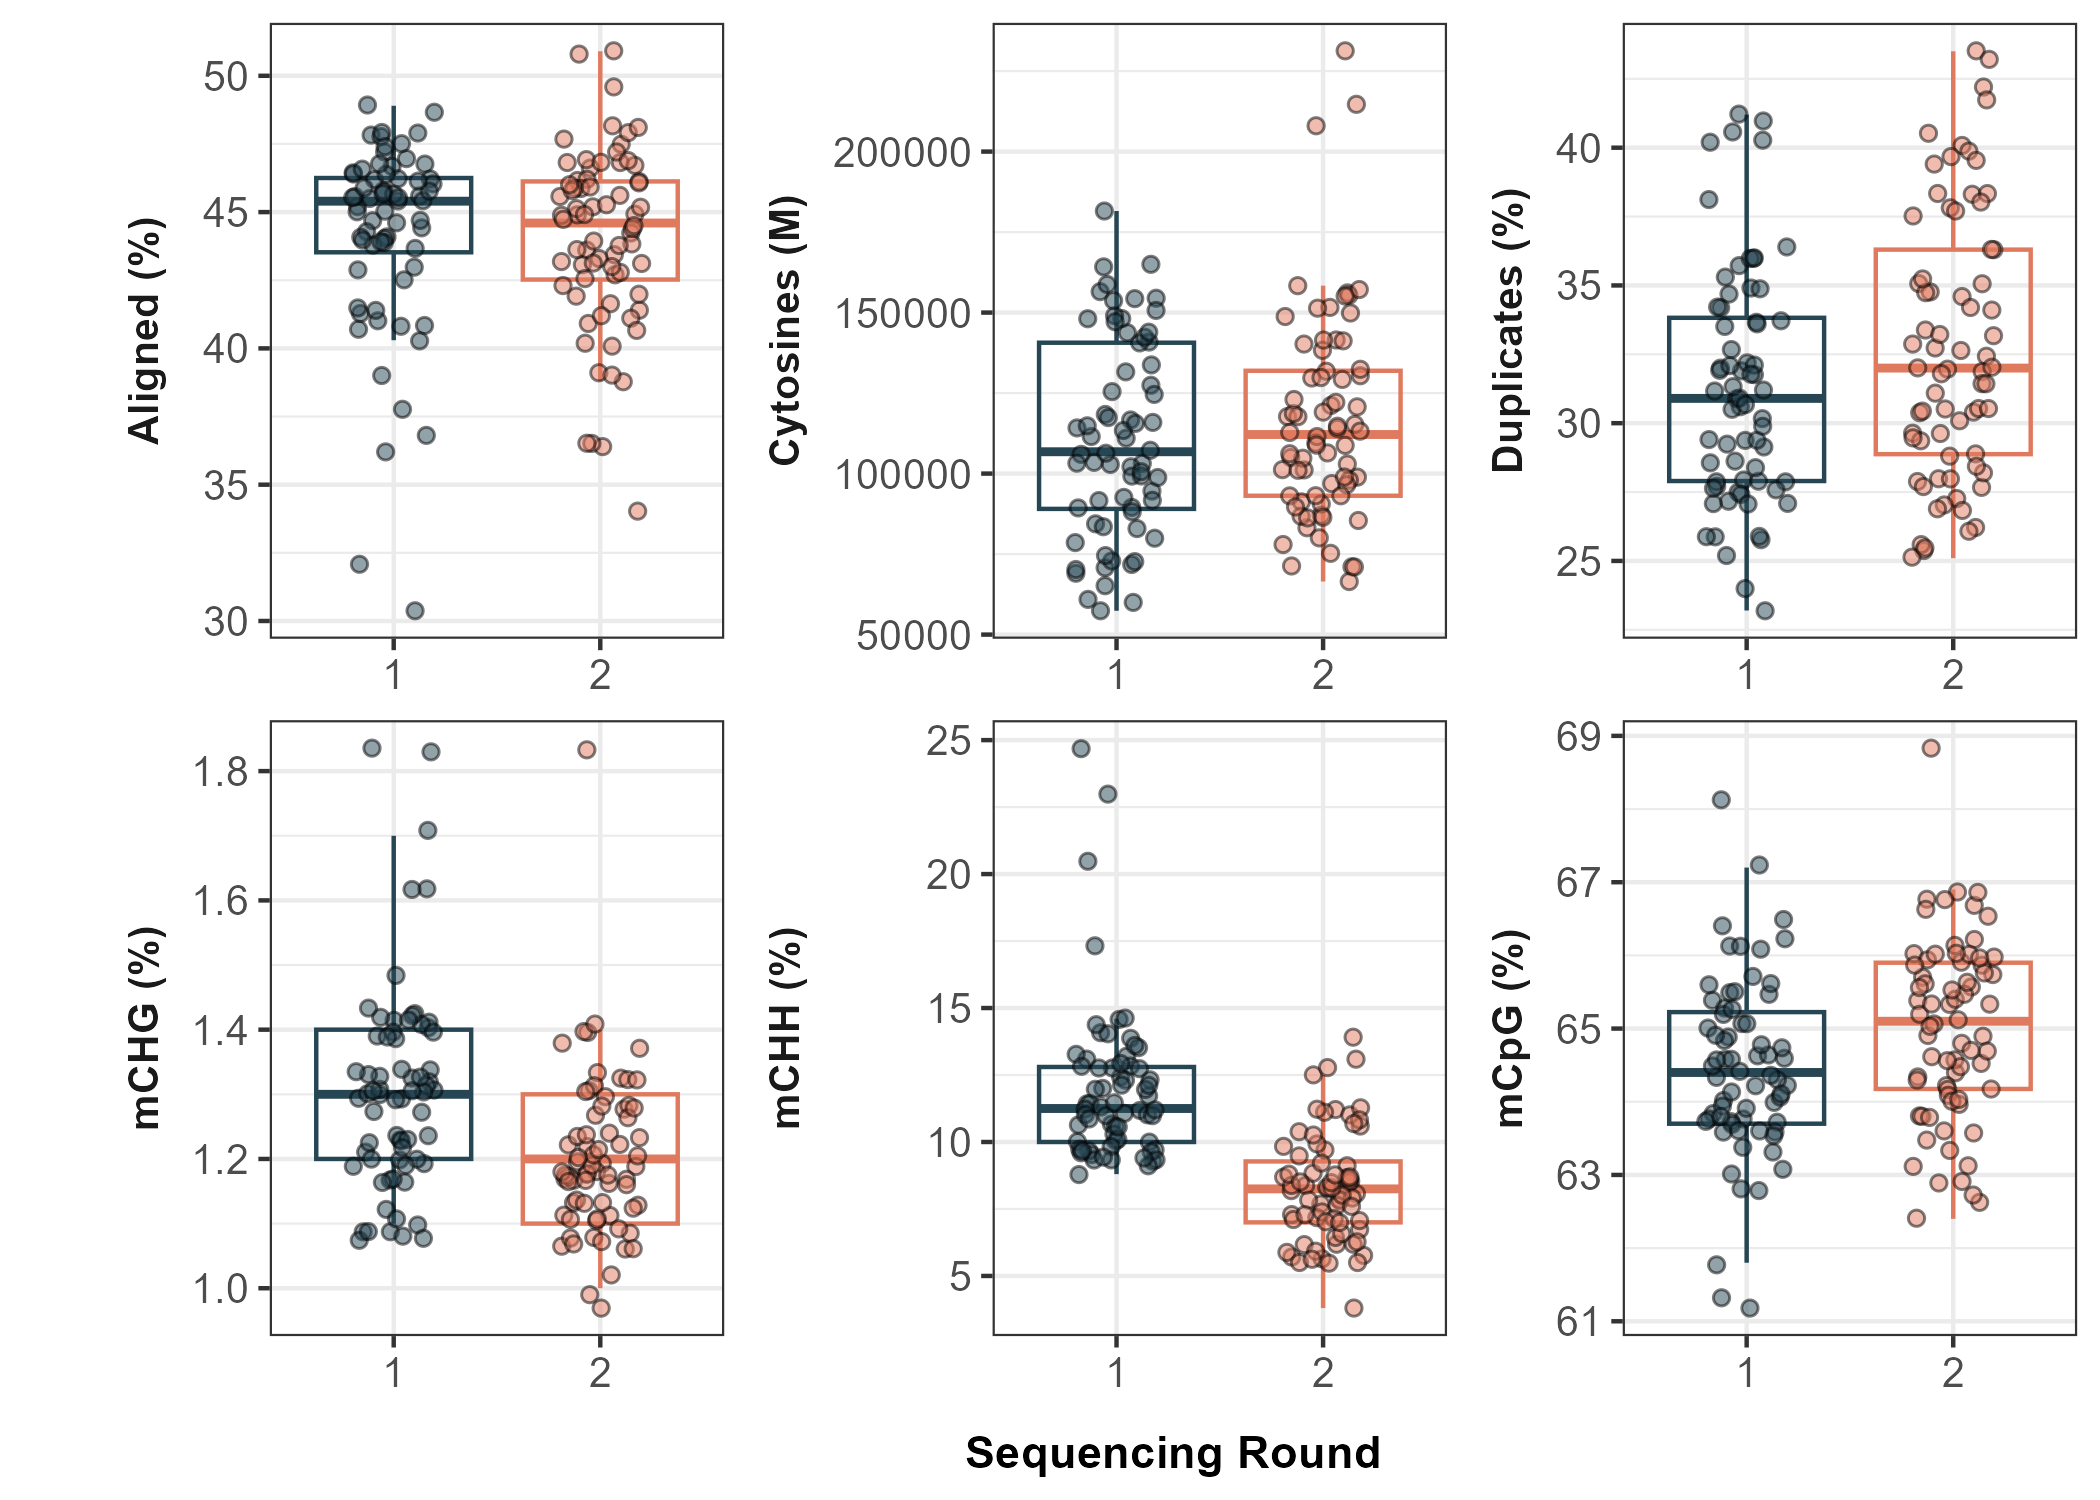
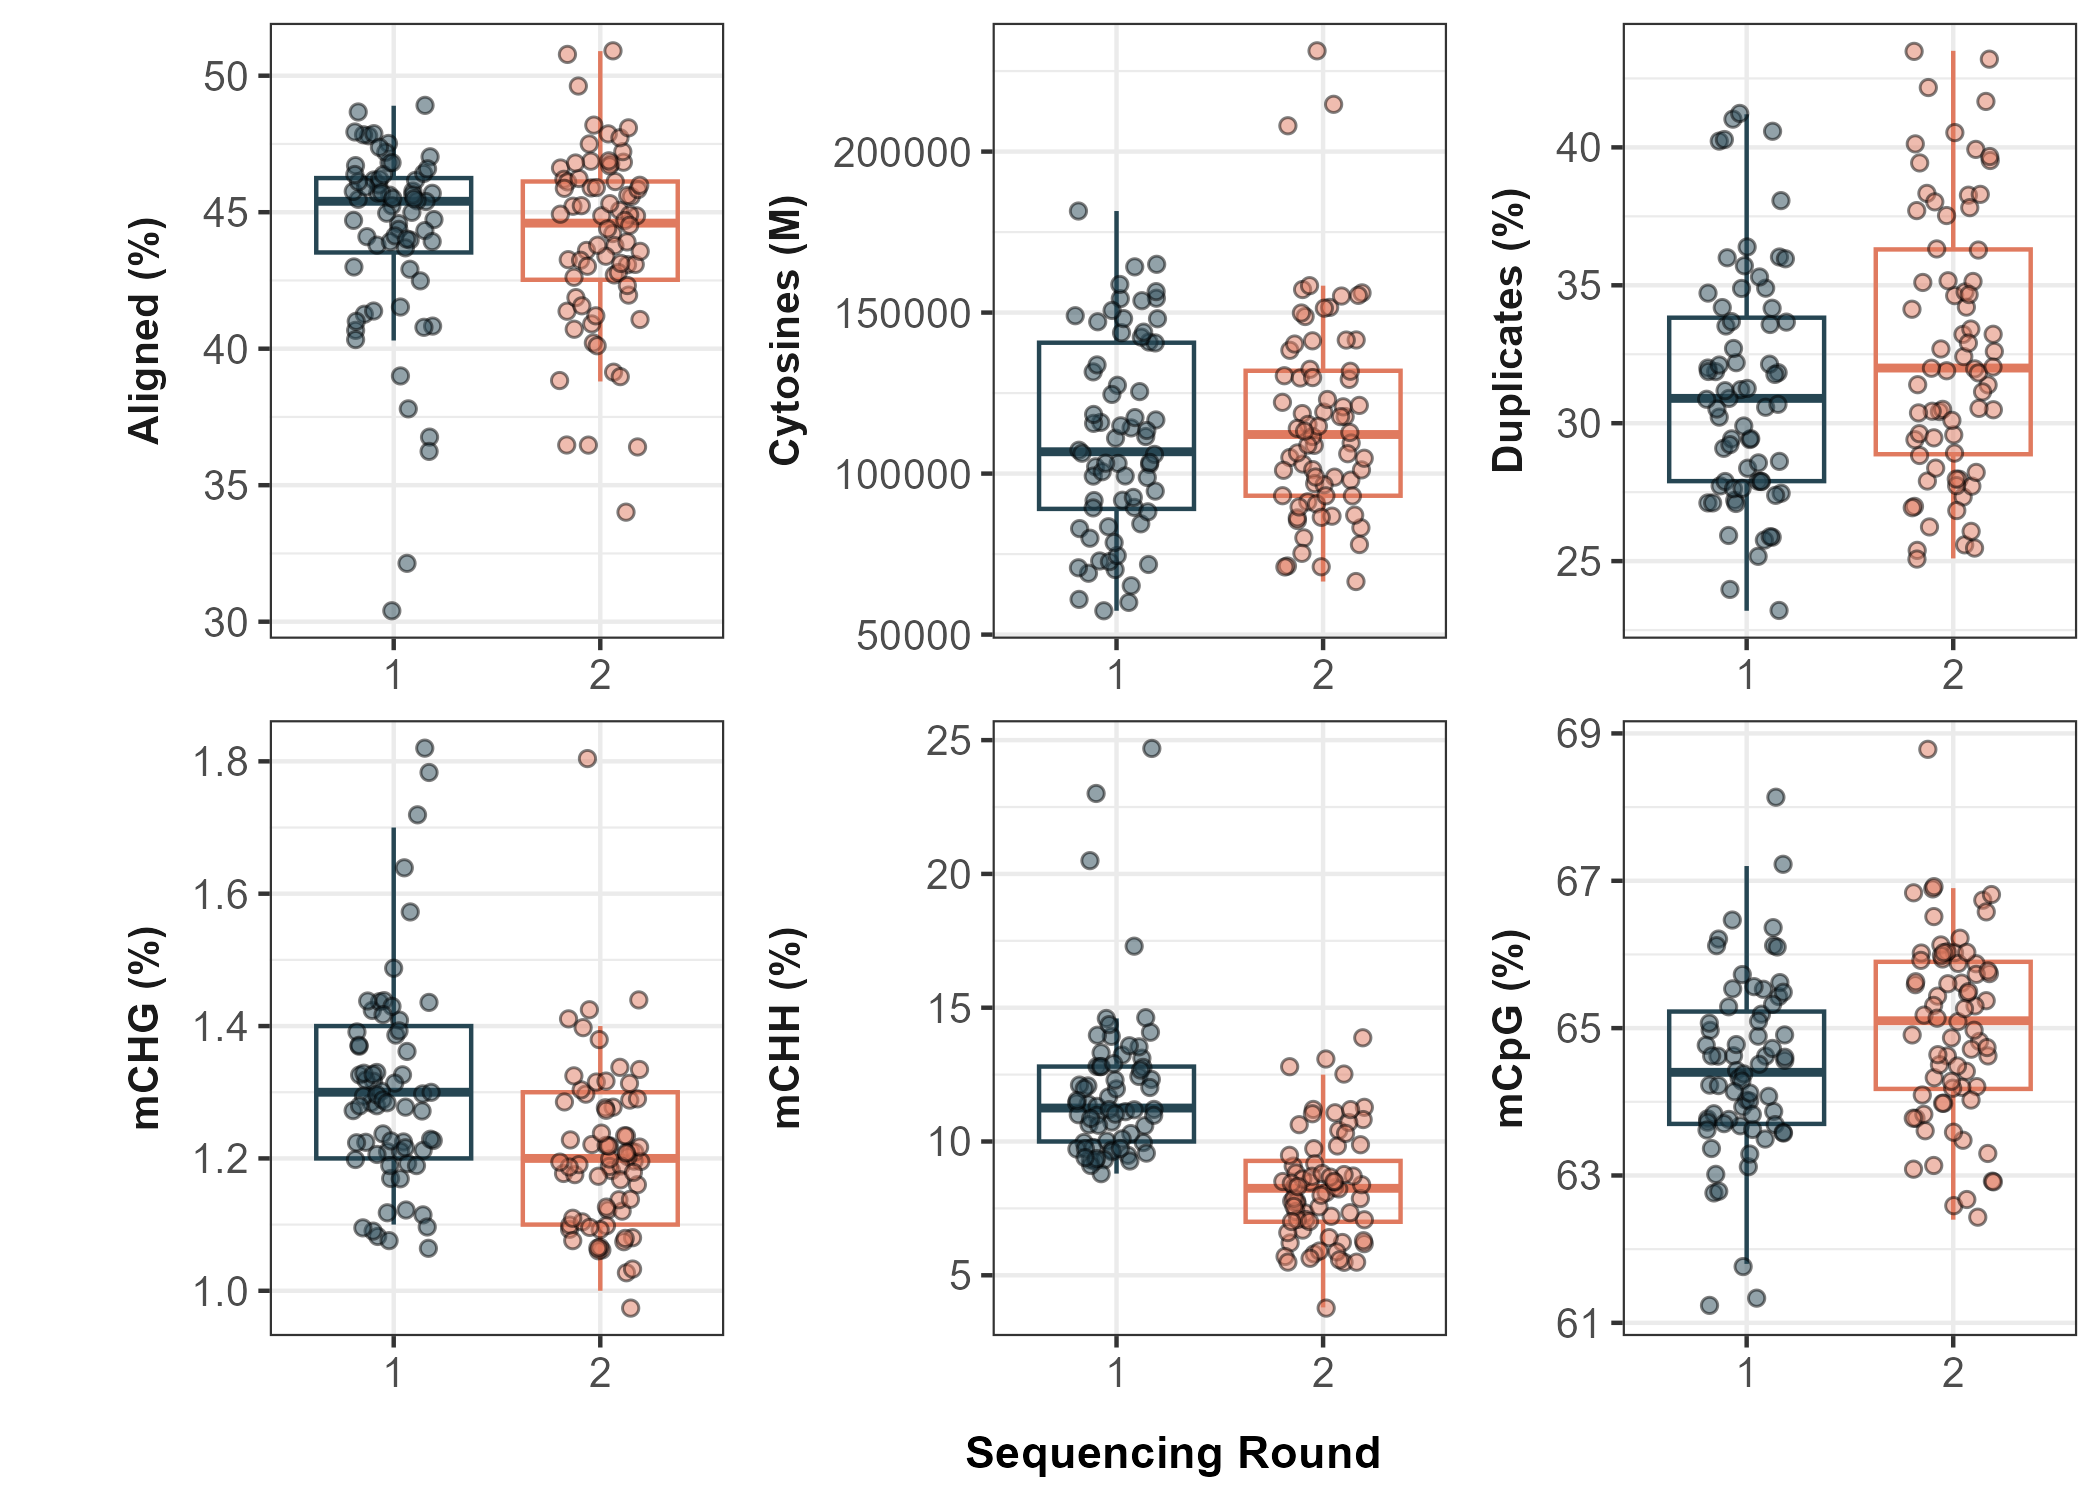
BC conv script and stats output

diff --git a/scripts/04b-Methylation_QC.md b/scripts/04b-Methylation_QC.md
@@ -46,32 +46,38 @@ library(cowplot)
 Read in haddock alignment and bioinformatic processes data
 
 ``` r
-WGBS_data <- read_xlsx("data/01_QC/bioinfo_stats.xlsx") %>% 
+WGBS_data <- read_xlsx("data/01_QC/bismark_statistics.xlsx") %>% 
   ## creating sample ID column 
   mutate(GMGI_ID = str_before_first(`Sample Name`, "_")) %>% dplyr::select(-`Sample Name`) %>%
-  ## relocating columns
-  relocate(GMGI_ID, .before = Percent_Aligned) %>% relocate(M_C, .after = GMGI_ID) %>%
   ## change proportions to percentages
-  mutate(across(Percent_Aligned:Methylated_CHH, ~ .x*100))
+  mutate(across(`mCpG (%)`:`Duplicates (%)`, ~ .x*100))
 ```
 
 Read in results from e.coli alignment and calculating conversion
 efficiency
 
 ``` r
-ecoli_data <- read.delim2(file = "data/03_bisulfite_conversion_efficiency/ecoli_seqrun1_align.txt", header=T) %>%
+ecoli_seq1 <- read.delim2(file = "data/03_bisulfite_conversion_efficiency/ecoli_seqrun1_align.txt", header=T) 
+ecoli_seq2 <- read.delim2(file = "data/03_bisulfite_conversion_efficiency/ecoli_seqrun2_align.txt", header=T) 
+
+ecoli <- full_join(ecoli_seq1, ecoli_seq2) %>%
   mutate(., GMGI_ID = str_before_nth(File, "_", 1),
          GMGI_ID = gsub("./", "", GMGI_ID)) %>% 
   ## calculating percent aligned to ecoli genome
-  mutate(per_aligned = (Aligned.Reads/Total.Reads)*100) %>%
+  mutate(`Aligned (%)` = (Aligned.Reads/Total.Reads)*100) %>%
   ## calculating bisulfite conversion efficiency
   mutate(totalCHH = Methylated.CHHs + Unmethylated.CHHs,
          totalCHG = Methylated.chgs + Unmethylated.chgs,
          unmethCHH_CHG = Unmethylated.CHHs + Unmethylated.chgs,
          total_CHH_CHG = totalCHH + totalCHG,
-         conv_eff = (unmethCHH_CHG/total_CHH_CHG)*100) %>%
-  dplyr::select(GMGI_ID, per_aligned, conv_eff)
+         `Conversion Efficiency (%)` = (unmethCHH_CHG/total_CHH_CHG)*100) %>%
+  dplyr::select(GMGI_ID, `Aligned (%)`, `Conversion Efficiency (%)`)
 ```
+
+    ## Joining with `by = join_by(File, Total.Reads, Aligned.Reads, Unaligned.Reads,
+    ## Ambiguously.Aligned.Reads, No.Genomic.Sequence, Duplicate.Reads..removed.,
+    ## Unique.Reads..remaining., Total.Cs, Methylated.CpGs, Unmethylated.CpGs,
+    ## Methylated.chgs, Unmethylated.chgs, Methylated.CHHs, Unmethylated.CHHs)`
 
 Bring in metadata to combine with ecoli and wgbs data
 
@@ -80,47 +86,86 @@ metadata <- read_xlsx("data/00_metadata/full_finclips_sampling.xlsx")
 labwork <- read_xlsx("C:/BoxDrive/Box/Science/Fisheries/Projects/Epigenetic Aging/Haddock/Labwork/Haddock_labwork.xlsx", sheet = "Sample List") %>% dplyr::select(GMGI_ID, `Seq Rnd`)
 metadata <- full_join(metadata, labwork, by="GMGI_ID")
 
-data <- right_join(metadata, ecoli_data, by="GMGI_ID") %>% left_join(., WGBS_data, by = "GMGI_ID")
+data <- right_join(metadata, ecoli, by="GMGI_ID") 
+
+WGBS_data <- WGBS_data %>% left_join(., metadata, by = "GMGI_ID")
+WGBS_data$`Seq Rnd` <- as.character(WGBS_data$`Seq Rnd`)
 
 data$`Seq Rnd` <- as.character(data$`Seq Rnd`)
 ```
 
-## Plotting
+## Bisulfite Conversion
 
 ``` r
-supp_fig <- data %>% gather("measurement", "value", c(per_aligned:Percent_mCHH)) %>%
-  ggplot(., aes(x=`Seq Rnd`, y=value, fill=`Seq Rnd`)) + 
-  theme_bw() +
-  geom_boxplot(outlier.shape = NA, alpha=0.3, width=0.6, fill="white", color="grey55", linewidth=1) + 
-  geom_jitter(size=2.5, alpha=0.6, width=0.15, shape=21, color="black") +
-  xlab("Sequencing Round") +
-  ylab("") +
-  guides(fill = "none") +
-  facet_wrap(~factor(measurement, levels = c("per_aligned", "conv_eff", "M_C", 
-                                             "Percent_Aligned", "Percent_Dups", "Percent_mCHG",
-                                             "Percent_mCHH", "Percent_mCpG")), 
-             scales = "free", strip.position = "left",
-             labeller = as_labeller(c(conv_eff = "Bisulfite conversion efficiency (%)",
-                                      M_C = "Number of cytosine's (Mil.)",
-                                      Percent_mCHG = "CHG methylation (%)",
-                                      Percent_mCHH = "CHH methylation (%)",
-                                      Percent_mCpG = "CpG methylation (%)",
-                                      per_aligned = "E.coli alignment (%)",
-                                      Percent_Aligned = "Haddock alignment (%)",
-                                      Percent_Dups = "Duplicated reads (%)"))
+data %>% dplyr::select(GMGI_ID, `Seq Rnd`, `Aligned (%)`, `Conversion Efficiency (%)`) %>%
+  gather("measurement", "value", 3:4) %>%
+  
+  ggplot(., aes(x=`Seq Rnd`, y=value)) +
+  geom_boxplot(outlier.shape=NA, aes(color=`Seq Rnd`), fill=NA) + 
+  geom_jitter(aes(fill=`Seq Rnd`), color='black', alpha=0.5, width=0.2, shape=21) +
+  labs(
+    y="",
+    x="Sequencing Round"
+  ) +
+  scale_color_manual(values = c("#264653", "#e07a5f")) +
+  scale_fill_manual(values = c("#264653", "#e07a5f")) +
+  facet_wrap(~measurement, scales = "free",
+             strip.position = "left"
              ) +
-  scale_fill_manual(values = c("indianred3")) +
-  theme(panel.background=element_rect(fill='white', colour='black'),
-        strip.background = element_blank(), strip.placement = "outside",
-        strip.text = element_text(size = 12, face="bold"),
-        strip.text.y.left = element_text(size=10, color = "black", face = "bold"),
-        axis.text.x = element_text(size=11, color="black"),
-        axis.title.y = element_text(margin = margin(t = 0, r = 10, b = 0, l = 0), size=12, face="bold"),
-        axis.title.x = element_text(margin = margin(t = 10, r = 0, b = 0, l = 0), size=10, face="bold")); supp_fig
+  theme_bw() +
+  theme(panel.background=element_blank(),
+        strip.background=element_blank(),
+        strip.text = element_text(size = 10, face="bold"),
+        legend.position = "none",
+        strip.clip = 'off',
+        strip.placement = "outside",
+        axis.text.y = element_text(size=10, color="grey30"),
+        axis.text.x = element_text(size=10, color="grey30"),
+        axis.title.y = element_text(margin = margin(t = 0, r = 10, b = 0, l = 0), size=11, face="bold"),
+        axis.title.x = element_text(margin = margin(t = 10, r = 0, b = 0, l = 0), size=11, face="bold"))
 ```
 
 ![](04b-Methylation_QC_files/figure-gfm/unnamed-chunk-5-1.png)<!-- -->
 
 ``` r
-ggsave("data/03_bisulfite_conversion_efficiency/QC.png", width=8, height=8)
+ggsave("data/03_bisulfite_conversion_efficiency/Bisulfite_Conversion_Efficiency.png", width=6, height=4)
+```
+
+## Quality Control metrics
+
+``` r
+WGBS_data %>% dplyr::select(GMGI_ID, `Seq Rnd`, `mCpG (%)`, `mCHG (%)`, 
+                            `mCHH (%)`, `Cytosines (M)`, `Aligned (%)`, `Duplicates (%)`)  %>%
+  
+  gather("measurement", "value", 3:8) %>%
+  
+  ggplot(., aes(x=`Seq Rnd`, y=value)) +
+  geom_boxplot(outlier.shape=NA, aes(color=`Seq Rnd`), fill=NA) + 
+  geom_jitter(aes(fill=`Seq Rnd`), color='black', alpha=0.5, width=0.2, shape=21) +
+  labs(
+    y="",
+    x="Sequencing Round"
+  ) +
+  scale_color_manual(values = c("#264653", "#e07a5f")) +
+  scale_fill_manual(values = c("#264653", "#e07a5f")) +
+  facet_wrap(~measurement, scales = "free",
+             strip.position = "left"
+             ) +
+  theme_bw() +
+  theme(panel.background=element_blank(),
+        strip.background=element_blank(),
+        strip.text = element_text(size = 10, face="bold"),
+        legend.position = "none",
+        strip.clip = 'off',
+        strip.placement = "outside",
+        axis.text.y = element_text(size=10, color="grey30"),
+        axis.text.x = element_text(size=10, color="grey30"),
+        axis.title.y = element_text(margin = margin(t = 0, r = 10, b = 0, l = 0), size=11, face="bold"),
+        axis.title.x = element_text(margin = margin(t = 10, r = 0, b = 0, l = 0), size=11, face="bold"))
+```
+
+![](04b-Methylation_QC_files/figure-gfm/unnamed-chunk-6-1.png)<!-- -->
+
+``` r
+ggsave("data/01_QC/Bismark_quality_control.png", width=7, height=5)
 ```
